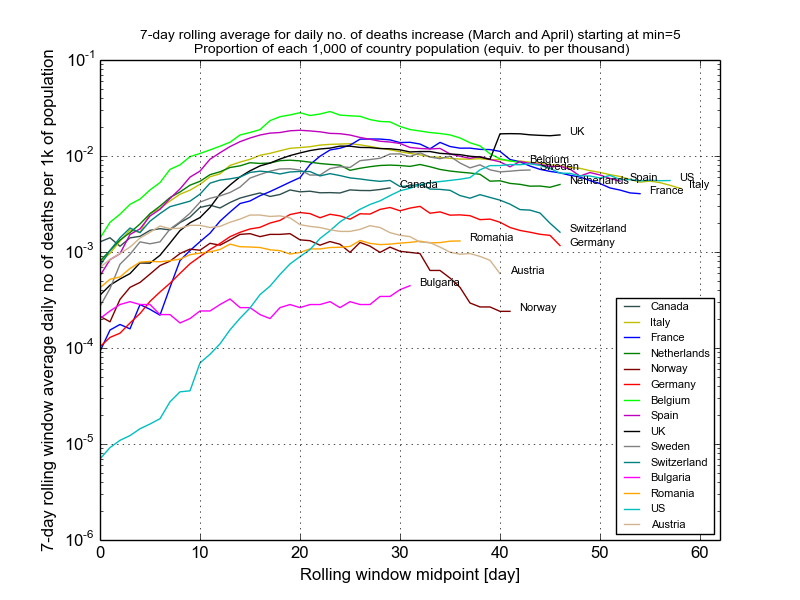
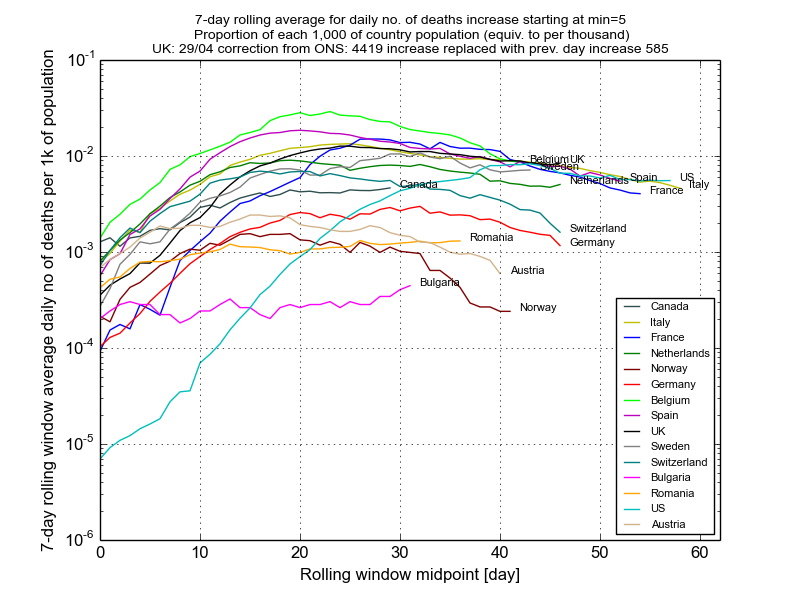
smoother uk deaths for ons correction and created cum deaths per population

Changed region(s): [[0.1875, 0.03, 0.8438, 0.09], [0.5938, 0.21, 0.6875, 0.27], [0.7188, 0.21, 0.75, 0.24]]

diff --git a/cov_model/cov_lin_wrapper.py b/cov_model/cov_lin_wrapper.py
@@ -858,7 +858,11 @@ def plot_rolling_average(nums_deaths, n=7):
             if country == "UK":
                 deaths = np.loadtxt("country_data/UK_deaths_history")
             deaths = list(sorted([d for d in deaths if d > 5.]))
+            # adjust for ONS correction of 29 April 2020
+            # rempve the delta from 28 to 29 April (outlier) and replace with 28 apr value
             deaths = [deaths[i + 1] - deaths[i] for i in range(len(deaths) - 1)]
+            if country == "UK":
+                deaths[46] = 585.  # keep previous delta
             ret = np.cumsum(deaths, dtype=float)
             ret[n:] = ret[n:] - ret[:-n]
             rolling_avg = ret[n - 1:] / n
@@ -868,8 +872,9 @@ def plot_rolling_average(nums_deaths, n=7):
                                       rolling_avg[-1]), fontsize=8)
             len_windows.append(len(rolling_avg))
 
-    header = "7-day rolling average for daily no. of deaths increase (March and April) starting at min=5".format(country)
-    plt.title(header, fontsize=10)
+    header = "7-day rolling average for daily no. of deaths increase starting at min=5"
+    subheader = "\nUK: 29/04 correction from ONS: 4419 increase replaced with prev. day increase 585"
+    plt.title(header + subheader, fontsize=10)
     plt.xlabel("Rolling window midpoint [day]")
     plt.ylabel("7-day rolling window average daily no of deaths")
     plt.semilogy()
@@ -890,6 +895,9 @@ def plot_rolling_average(nums_deaths, n=7):
                 deaths = np.loadtxt("country_data/UK_deaths_history")
             deaths = list(sorted([d for d in deaths if d > 5.]))
             deaths = [deaths[i + 1] - deaths[i] for i in range(len(deaths) - 1)]
+            # adjust delta from ONS correction; replace outlier with value from 28 apr
+            if country == "UK":
+                deaths[46] = 585.  # keep previous delta
             cp = COUNTRY_PARAMS[country][1]
             deaths_per_capita = [d / cp for d in deaths]
             ret_pc = np.cumsum(deaths_per_capita, dtype=float)
@@ -900,9 +908,10 @@ def plot_rolling_average(nums_deaths, n=7):
             plt.annotate(country, xy=(len(rolling_avg_pc) + 0.05,
                                       rolling_avg_pc[-1]), fontsize=8)
 
-    header = "7-day rolling average for daily no. of deaths increase (March and April) starting at min=5".format(country)
+    header = "7-day rolling average for daily no. of deaths increase starting at min=5"
     subheader = '\n Proportion of each 1,000 of country population (equiv. to per thousand)'
-    plt.title(header + subheader, fontsize=10)
+    subheader2 = "\nUK: 29/04 correction from ONS: 4419 increase replaced with prev. day increase 585"
+    plt.title(header + subheader + subheader2, fontsize=10)
     plt.xlabel("Rolling window midpoint [day]")
     plt.ylabel("7-day rolling window average daily no of deaths per 1k of population")
     plt.semilogy()
@@ -918,6 +927,39 @@ def plot_rolling_average(nums_deaths, n=7):
                              "COVID-19_Deaths_Rolling_Average_per_Population.png"))
     plt.close()
 
+
+    for country, deaths in nums_deaths.items():
+        if country in analyzed_countries:
+            if country == "UK":
+                deaths = np.loadtxt("country_data/UK_deaths_history")
+            deaths = list(sorted([d for d in deaths if d > 5.]))
+            cp = COUNTRY_PARAMS[country][1]
+            deaths_per_capita = [d / cp for d in deaths]
+            ret_pc = np.cumsum(deaths_per_capita, dtype=float)
+            ret_pc[n:] = ret_pc[n:] - ret_pc[:-n]
+            rolling_avg_pc = ret_pc[n - 1:] / n
+            plt.plot(range(len(rolling_avg_pc)), rolling_avg_pc,
+                     color=country_colors[country], label=country)
+            plt.annotate(country, xy=(len(rolling_avg_pc) + 0.05,
+                                      rolling_avg_pc[-1]), fontsize=8)
+
+    header = "7-day rolling average cumulative no. of deaths starting at min=5"
+    subheader = '\n Proportion of each 1,000 of country population (equiv. to per thousand)'
+    plt.title(header + subheader, fontsize=10)
+    plt.xlabel("Rolling window midpoint [day]")
+    plt.ylabel("7-day rolling window average cumulative no. of deaths per 1k population")
+    plt.semilogy()
+    plt.xlim(0, max(len_windows) + 3)
+    plt.grid()
+    plt.legend(loc="lower right", fontsize=8)
+
+    country = "ALL_COUNTRIES"
+    if not os.path.isdir(os.path.join("country_plots", country)):
+        os.makedirs(os.path.join("country_plots", country))
+
+    plt.savefig(os.path.join("country_plots", country,
+                             "COVID-19_Deaths_per_Population.png"))
+    plt.close()
 
     for country, deaths in nums_deaths.items():
         if country in analyzed_countries:
